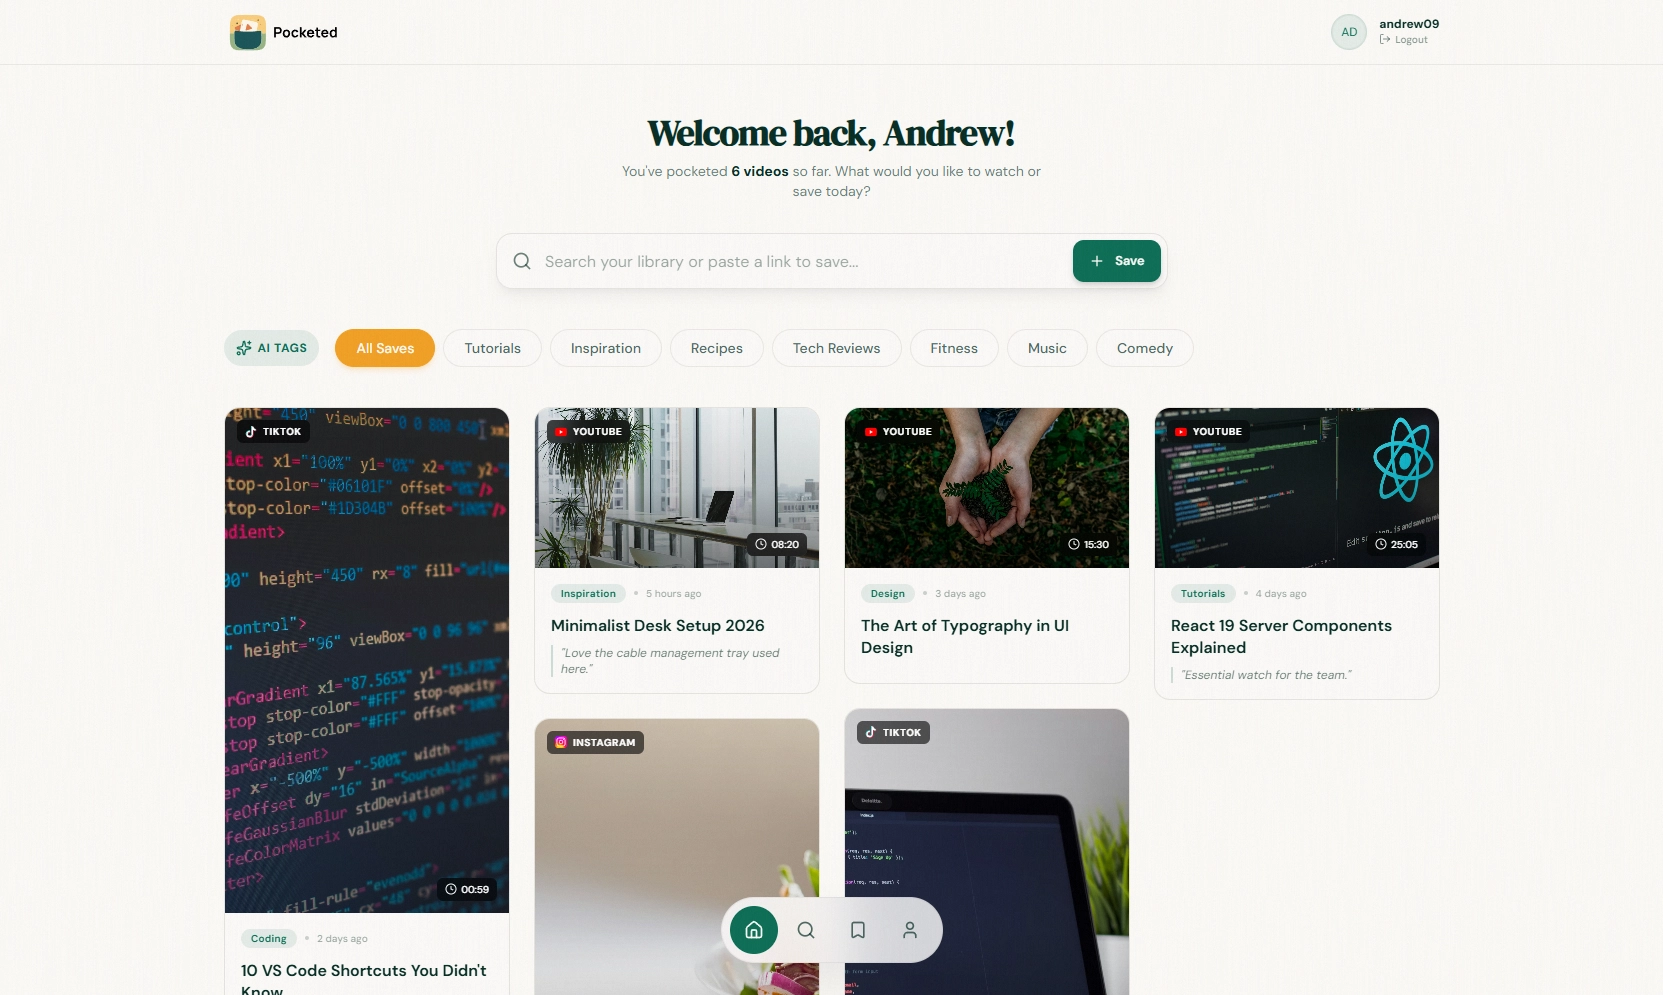
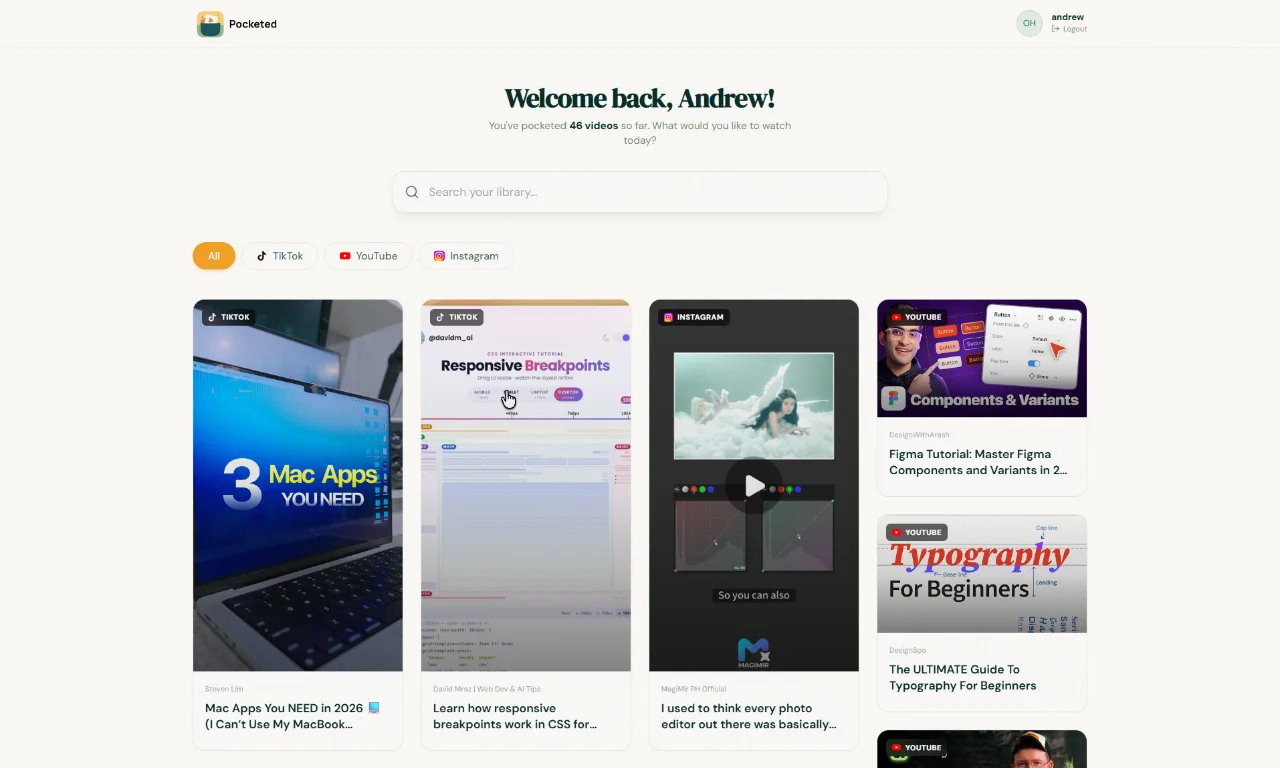
feat(ai): implement auto-tagging edge function and update landing assets

diff --git a/supabase/functions/auto-tag/index.ts b/supabase/functions/auto-tag/index.ts
@@ -1,0 +1,39 @@
+tsimport { serve } from '[https://deno.land/std/http/server.ts](https://deno.land/std/http/server.ts)'
+
+serve(async (req) => {
+  const { video_id, title } = await req.json()
+
+  const response = await fetch('[https://api.anthropic.com/v1/messages](https://api.anthropic.com/v1/messages)', {
+    method: 'POST',
+    headers: {
+      'x-api-key': Deno.env.get('CLAUDE_API_KEY'),
+      'anthropic-version': '2023-06-01',
+      'content-type': 'application/json'
+    },
+    body: JSON.stringify({
+      model: 'claude-sonnet-4-6',
+      max_tokens: 200,
+      messages: [{
+        role: 'user',
+        content: `A user saved a video titled: "${title}".
+Return a JSON object only with:
+
+- category: one word (fitness/travel/cooking/comedy/learning/music/other)
+- mood: one or two words (e.g. "motivating", "relaxing")
+- tags: array of 3-5 short searchable keywords
+No explanation, JSON only.`
+}]
+})
+})
+const data = await response.json()
+const parsed = JSON.parse(data.content[0].text)
+// Insert tags
+const supabase = createClient(
+  Deno.env.get('SUPABASE_URL')!,
+  Deno.env.get('SUPABASE_SERVICE_ROLE_KEY')!
+)
+const tagRows = [parsed.category, parsed.mood, ...parsed.tags]
+  .map(label => ({ video_id, label }))
+await supabase.from('tags').insert(tagRows)
+return new Response('ok', { status: 200 })
+})

diff --git a/src/components/modals/AddToCollectionModal.tsx b/src/components/modals/AddToCollectionModal.tsx
@@ -1,5 +1,5 @@
 import { Loader2, Plus, Search } from "lucide-react";
-import { useEffect, useState } from "react";
+import { useCallback, useEffect, useState } from "react";
 import { Button } from "@/components/ui/button";
 import {
   Dialog,
@@ -41,16 +41,7 @@ export default function AddToCollectionModal({
   const [newCollectionName, setNewCollectionName] = useState("");
   const [showCreateForm, setShowCreateForm] = useState(false);
 
-  useEffect(() => {
-    if (isOpen && video) {
-      checkExistingCollections();
-      setSearchQuery("");
-      setShowCreateForm(false);
-      setNewCollectionName("");
-    }
-  }, [isOpen, video, checkExistingCollections]);
-
-  const checkExistingCollections = async () => {
+  const checkExistingCollections = useCallback(async () => {
     if (!video) return;
     setCheckingExisting(true);
     try {
@@ -66,7 +57,17 @@ export default function AddToCollectionModal({
     } finally {
       setCheckingExisting(false);
     }
-  };
+  }, [video]);
+
+  useEffect(() => {
+    if (isOpen && video) {
+      checkExistingCollections();
+      setSearchQuery("");
+      setShowCreateForm(false);
+      setNewCollectionName("");
+    }
+  }, [isOpen, video]);
+
 
   const handleAddToCollection = async (collectionId: string) => {
     if (!video) return;

diff --git a/src/components/landing/Features.tsx b/src/components/landing/Features.tsx
@@ -2,6 +2,8 @@ import { motion } from "framer-motion";
 import { Sparkles } from "lucide-react";
 import { Card } from "@/components/ui/card";
 
+import WorksEverywhere from "@/assets/works-everywhere.webp"
+
 const containerVariants = {
   hidden: { opacity: 0 },
   visible: {
@@ -54,18 +56,13 @@ export default function Features() {
               >
                 <div className="relative size-full">
                   <img
-                    src="https://images.unsplash.com/photo-1512941937669-90a1b58e7e9c?q=80&w=2940&auto=format&fit=crop"
-                    alt="Mobile"
+                    src={WorksEverywhere}
+                    alt="Works Everywhere"
                     className="size-full object-cover"
                   />
-                  <div className="absolute inset-0 bg-primary/20 backdrop-blur-[2px] flex items-center justify-center">
-                    <div className="bg-white/90 p-2 rounded-xl shadow-lg translate-y-4 group-hover:translate-y-2 transition-transform">
-                      <div className="h-2 w-12 bg-primary/20 rounded-full mb-1"></div>
-                      <div className="h-1 w-8 bg-primary/10 rounded-full"></div>
-                    </div>
-                  </div>
                 </div>
               </Card>
+              
               <div className="sm:max-w-sm">
                 <h3 className="text-foreground text-xl font-semibold">
                   Works everywhere

diff --git a/src/components/modals/RenameCollectionModal.tsx b/src/components/modals/RenameCollectionModal.tsx
@@ -64,7 +64,7 @@ export default function RenameCollectionModal({
             Enter a new name for your collection.
           </DialogDescription>
         </DialogHeader>
-        <form onSubmit={handleSubmit} className="space-y-4 py-4">
+        <form onSubmit={handleSubmit} className="space-y-4">
           <div className="space-y-2">
             <Label htmlFor="rename-collection">Collection name</Label>
             <Input

diff --git a/supabase/functions/save-video/index.ts b/supabase/functions/save-video/index.ts
@@ -1,4 +1,4 @@
-import { createClient } from "@supabase/functions-js";
+import { createClient } from "@supabase/supabase-js";
 
 // ── Helpers ─────────────────────────────────────────────────────────
 